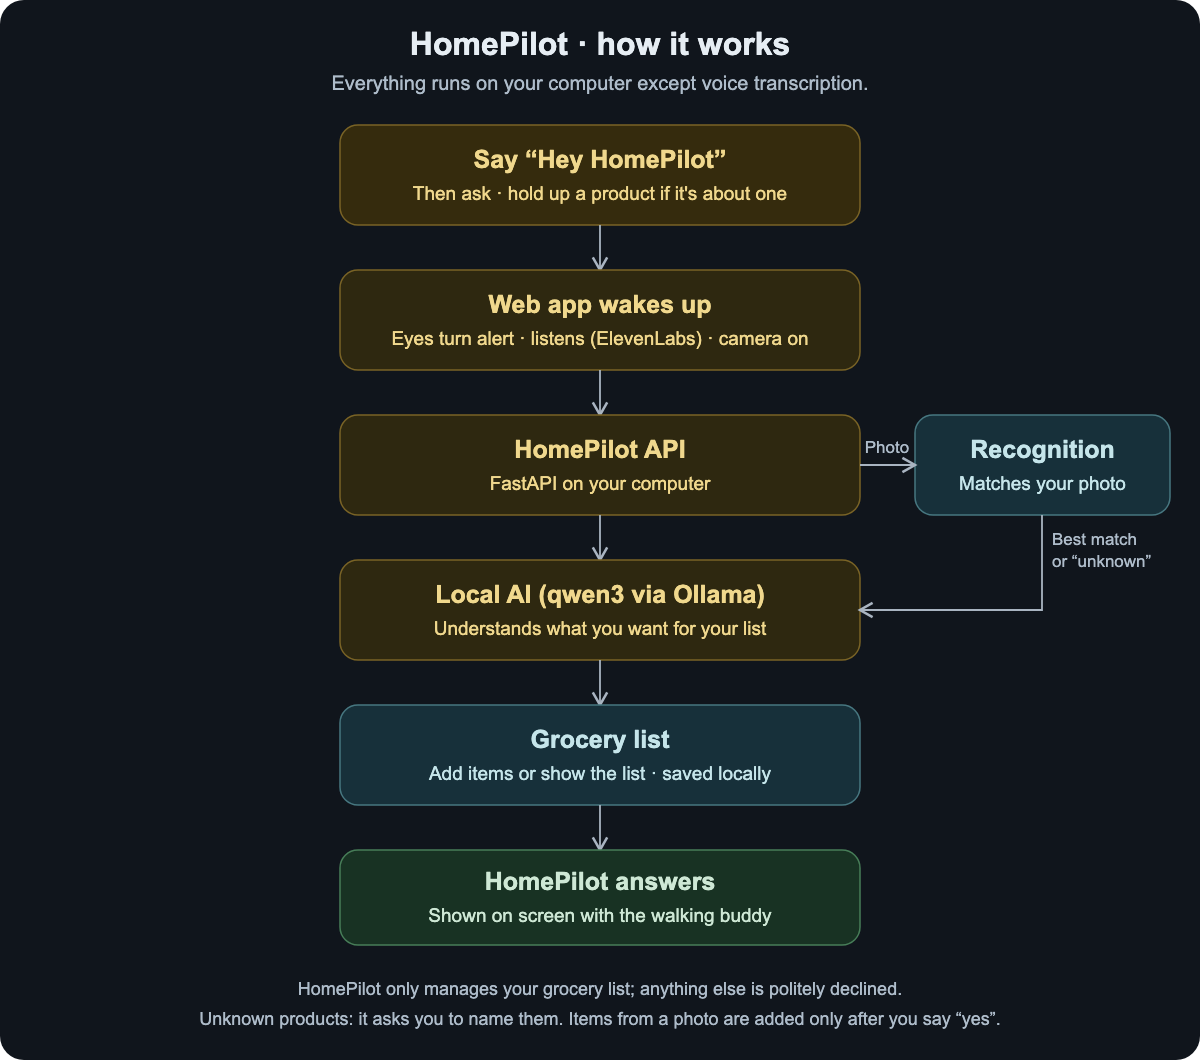
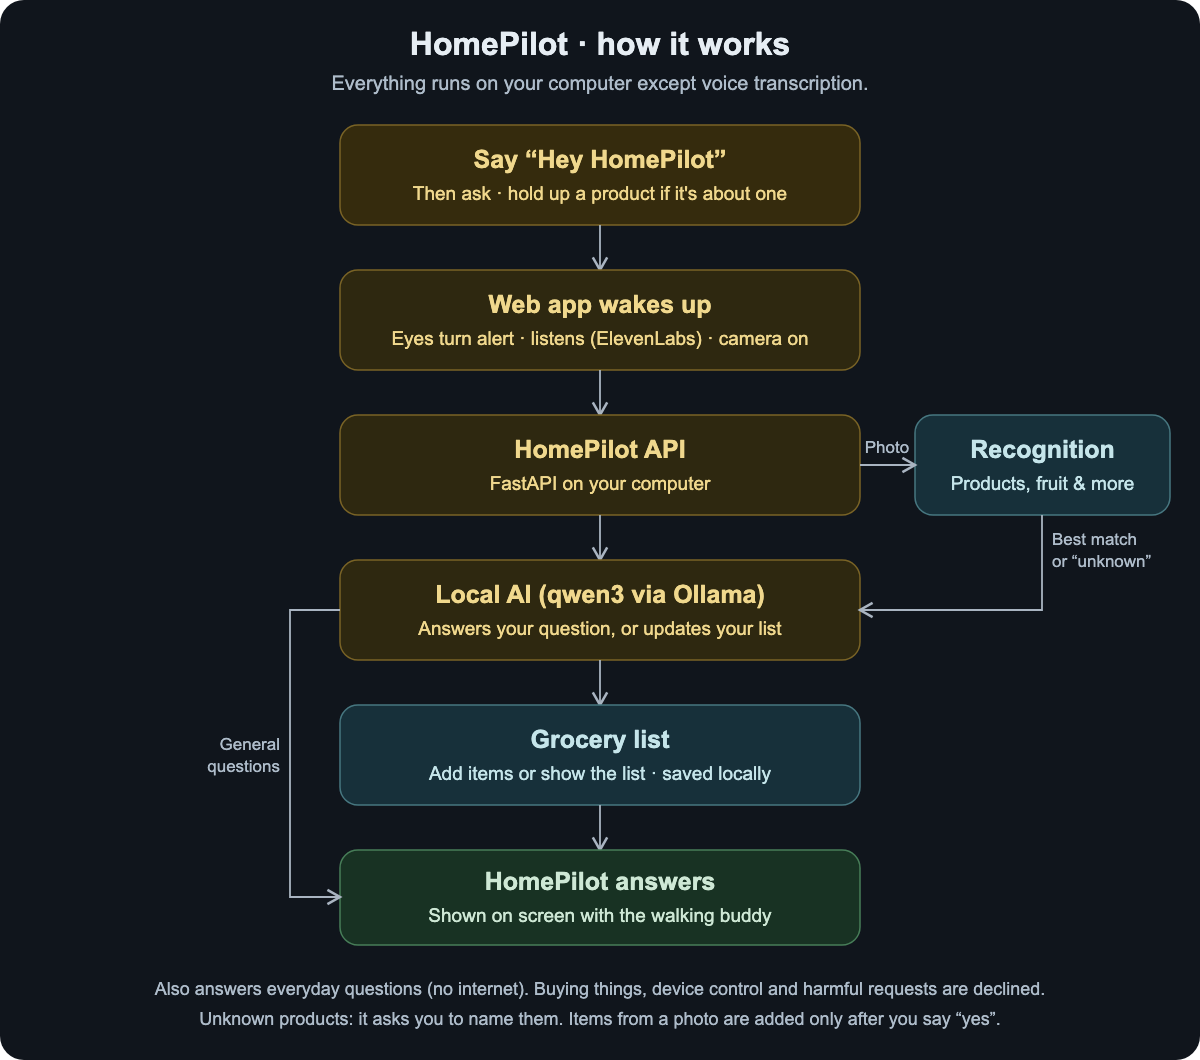
Update README and diagram for general questions and everyday items

diff --git a/README.md b/README.md
@@ -1,8 +1,8 @@
 # HomePilot
 
-HomePilot is a friendly grocery assistant that runs on your own computer. Say **"Hey HomePilot"**, hold a product up to
-your webcam, and ask it to **add it to your grocery list**. Or just type or say **"show my grocery list"** or **"add 3
-bananas"**. A pair of cartoon eyes listens, thinks and reacts; when there's something to show, HomePilot turns into a
+HomePilot is a friendly home assistant that runs on your own computer. Say **"Hey HomePilot"**, hold a product up to
+your webcam, and ask it to **add it to your grocery list**. Or just type or say **"show my grocery list"**, **"add eggs
+and bread"**, or ask an everyday question like **"how many ounces are in a cup?"**. A pair of cartoon eyes listens, thinks and reacts; when there's something to show, HomePilot turns into a
 little two-legged buddy that walks along the bottom of the screen.
 
 Everything except voice transcription runs locally: the AI "brain" (a local language model), the product-recognition
@@ -10,29 +10,31 @@ model and your grocery list all stay on your machine.
 
 ## What it can do
 
-Right now HomePilot manages your **grocery list** only.
-
-- **Add items by name:** "add 2 cartons of milk", "add some eggs".
-- **Show your list:** "show my grocery list".
+- **Add items by name:** "add 2 cartons of milk", or several at once: "add eggs, bread and milk".
+- **Show your list:** "show my grocery list" shows one item per line, with repeats combined (*Milk × 3*).
 - **Recognize products from a photo:** hold an item up (or choose a photo) and ask "what is this?" or "add this to my
   grocery list". HomePilot names the best match and **asks before saving**: *"This looks like M&M's Peanut. Should I add
   1 to your grocery list?"* Answer **yes** or **no**.
-- **Admit when it doesn't know:** products it hasn't been taught come back as unknown, and it asks you to name them
+- **Recognize everyday items too:** fruit, vegetables, eggs, bread, milk, pasta, paper towels, dish soap and other common
+  items are named even if they aren't in your gallery (*"This looks like Bananas…"*).
+- **Answer everyday questions:** facts, cooking tips, unit conversions, small talk, in a few short sentences. It has
+  **no internet**, so for weather, news, prices or scores it says it can't check live information.
+- **Admit when it doesn't know:** products it can't recognize come back as unknown, and it asks you to name them
   instead of guessing.
-- **Stay on topic:** requests that aren't about groceries are politely declined.
+- **Know its limits:** buying or ordering things, controlling devices, and harmful requests are politely declined.
 
-It only recognizes products that have been registered in its **gallery** (photos you provide; see
+Exact brand-level recognition works for products registered in its **gallery** (photos you provide; see
 [Teach it your products](#teach-it-your-products)).
 
 ## How it works
 
-![How HomePilot works: say Hey HomePilot, the web app wakes, the API sends any photo to recognition, the local AI understands the request, the grocery list is updated or shown, and HomePilot answers.](docs/assets/homepilot-process.png)
+![How HomePilot works: say Hey HomePilot, the web app wakes, the API sends any photo to recognition, the local AI answers your question or updates the grocery list, and HomePilot answers on screen.](docs/assets/homepilot-process.png)
 
 [Open full-size diagram](docs/assets/homepilot-process.png) · [Editable SVG](docs/assets/homepilot-process.svg)
 
 Your words (and optional photo) go to the HomePilot API. A photo is first sent to the recognition model, which returns
-its best product matches or "unknown". The language model then decides what you asked for and uses the grocery-list
-tools to read or update your list. The "brain" is a local [Ollama](https://ollama.com) model (`qwen3`), and the list
+its best product matches or "unknown". The language model then decides what you asked for: it uses the grocery-list
+tools to read or update your list, or answers your question directly. The "brain" is a local [Ollama](https://ollama.com) model (`qwen3`), and the list
 is stored in a local SQLite file.
 
 | Part | What it is | Runs on |
@@ -116,8 +118,9 @@ and open **http://localhost:3000/?demo=1** for sample answers.
 
 ## Using HomePilot
 
-1. **Wake it:** click **🎙 Listen** (allow the microphone), then say **"Hey HomePilot"**. The eyes become alert and the
-   screen border glows. You can also simply **tap the eyes**.
+1. **Wake it:** the first time, click **🎙 Listen** and allow the microphone; after that, HomePilot starts listening on
+   its own whenever the page is open (turn it off with the same button). Say **"Hey HomePilot"**: the eyes become alert,
+   the screen border glows and you hear a short chime. You can also simply **tap the eyes**.
 2. **Ask:** say or type your request. To use a product photo, hold it up while the camera preview is on and press
    **📸 Send photo**, or use **🖼 Choose photo**.
 3. **Confirm:** for items recognized from a photo, answer **yes** or **no**. By voice, say **"Hey HomePilot, yes"**.
@@ -153,7 +156,7 @@ HomePilot recognizes products by comparing your photo with reference photos in a
 
 **Optional fine-tuned model:** if you have the team's fine-tuned recognition model, build the gallery with
 `--model "$PWD/models/siglip2-ft-2ep/best"` and start with
-`VISION_MODEL="$PWD/models/siglip2-ft-2ep/best" VISION_UNKNOWN_THRESHOLD=0.80 scripts/run-demo.sh --prod`.
+`VISION_MODEL="$PWD/models/siglip2-ft-2ep/best" VISION_UNKNOWN_THRESHOLD=0.90 scripts/run-demo.sh --prod`.
 Use absolute paths: the model path must match the one stored in the gallery.
 
 ## Troubleshooting
